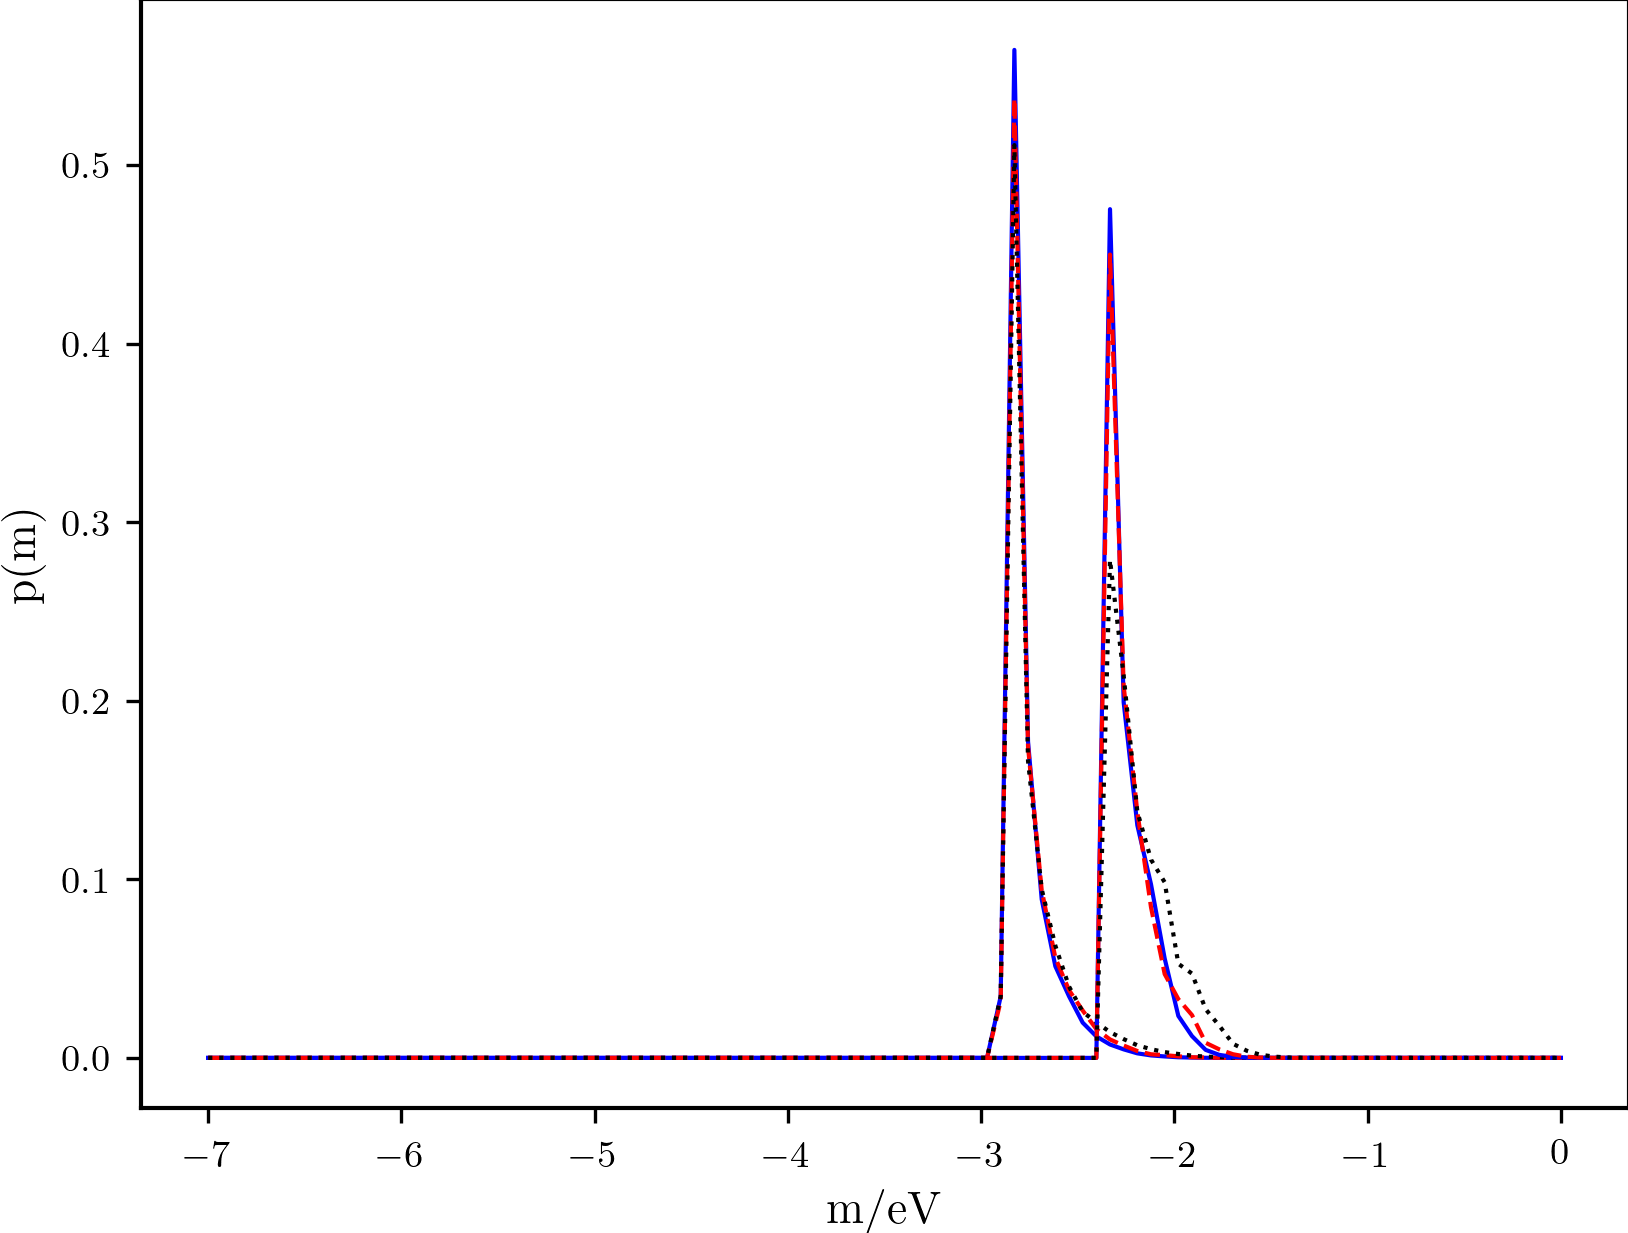
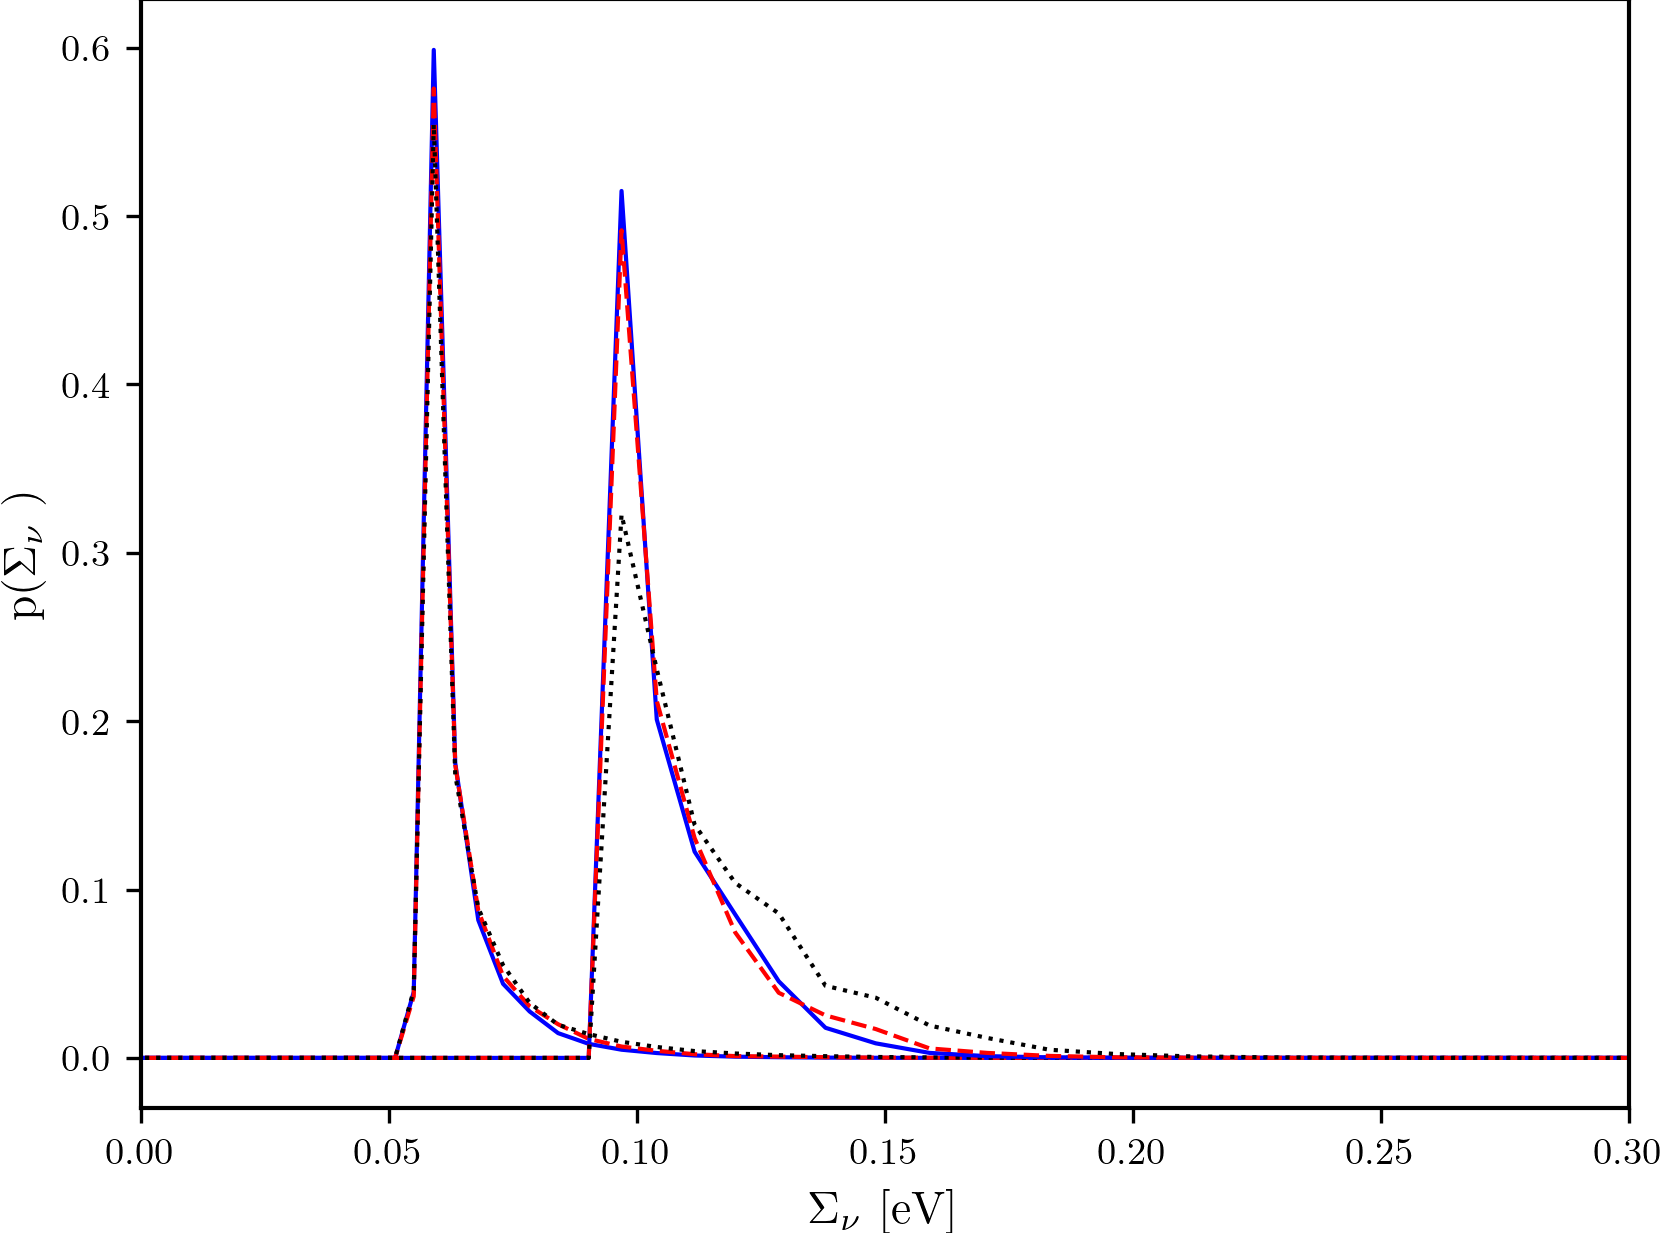
Set linear axes for mass posteriors

diff --git a/scripts/plot_sum_masses.py b/scripts/plot_sum_masses.py
@@ -13,7 +13,7 @@ COLOURS = ['b', 'r', 'k']
 plt.style.use("../jcappaper.mplstyle")
 
 
-def make_sum_of_masses_plot():
+def make_sum_of_masses_plot(log_mass: bool = False):
     """ Plot the posterior distribution for the sum of neutrino masses for two hierarchies and
      a range of upper bounds."""
 
@@ -28,10 +28,17 @@ def make_sum_of_masses_plot():
             likeligrid = get_posterior(hierarchy, data)
 
             y = likeligrid.mass_posterior[:, 3]
-            plt.plot(likeligrid.mass_log_bins, y, linestyle=linestyle, color=COLOURS[j])
+            if log_mass:
+                plt.plot(likeligrid.mass_log_bins, y, linestyle=linestyle, color=COLOURS[j])
+            else:
+                mass = np.exp(likeligrid.mass_log_bins)
+                y /= mass  # p(m) = p(log m) / m
+                y /= np.sum(y)
+                plt.plot(mass, y, linestyle=linestyle, color=COLOURS[j])
 
-            plt.xlabel('m/eV')
-            plt.ylabel('p(m)')
+            plt.xlabel('$\Sigma_\\nu$ [eV]')
+            plt.ylabel('p($\Sigma_\\nu$ )')
+            plt.xlim([0, 0.3])
 
     print_figure('sum_of_masses_posteriors')
     plt.show()

diff --git a/scripts/plot_mass_posteriors.py b/scripts/plot_mass_posteriors.py
@@ -13,7 +13,7 @@ COLOURS = ['b', 'r', 'k']
 plt.style.use("../jcappaper.mplstyle")
 
 
-def make_mass_plot():
+def make_mass_plot(log_mass: bool = False):
 
     data = load_neutrino_constraints()
     fig, axes = plt.subplots(nrows=1, ncols=2, sharex=True, sharey=False, figsize=(12, 6))
@@ -28,10 +28,18 @@ def make_mass_plot():
 
             for m in range(3):
                 y = likeligrid.mass_posterior[:, m]
-                axes[i].plot(likeligrid.mass_log_bins, y, linestyle=linestyle, color=COLOURS[m])
 
-            axes[i].set_xlabel('m/eV')
-            axes[i].set_ylabel('p(m)')
+                if log_mass:
+                    axes[i].plot(likeligrid.mass_log_bins, y, linestyle=linestyle, color=COLOURS[m])
+                else:
+                    mass = np.exp(likeligrid.mass_log_bins)
+                    y /= mass  # p(m) = p(log m) / m
+                    y /= np.sum(y)
+                    axes[i].plot(mass, y, linestyle=linestyle, color=COLOURS[m])
+
+        axes[i].set_xlabel('m/eV')
+        axes[i].set_ylabel('p(m)')
+        axes[i].set_xlim([0, 0.09])
 
     print_figure('mass_posteriors')
     plt.show()
